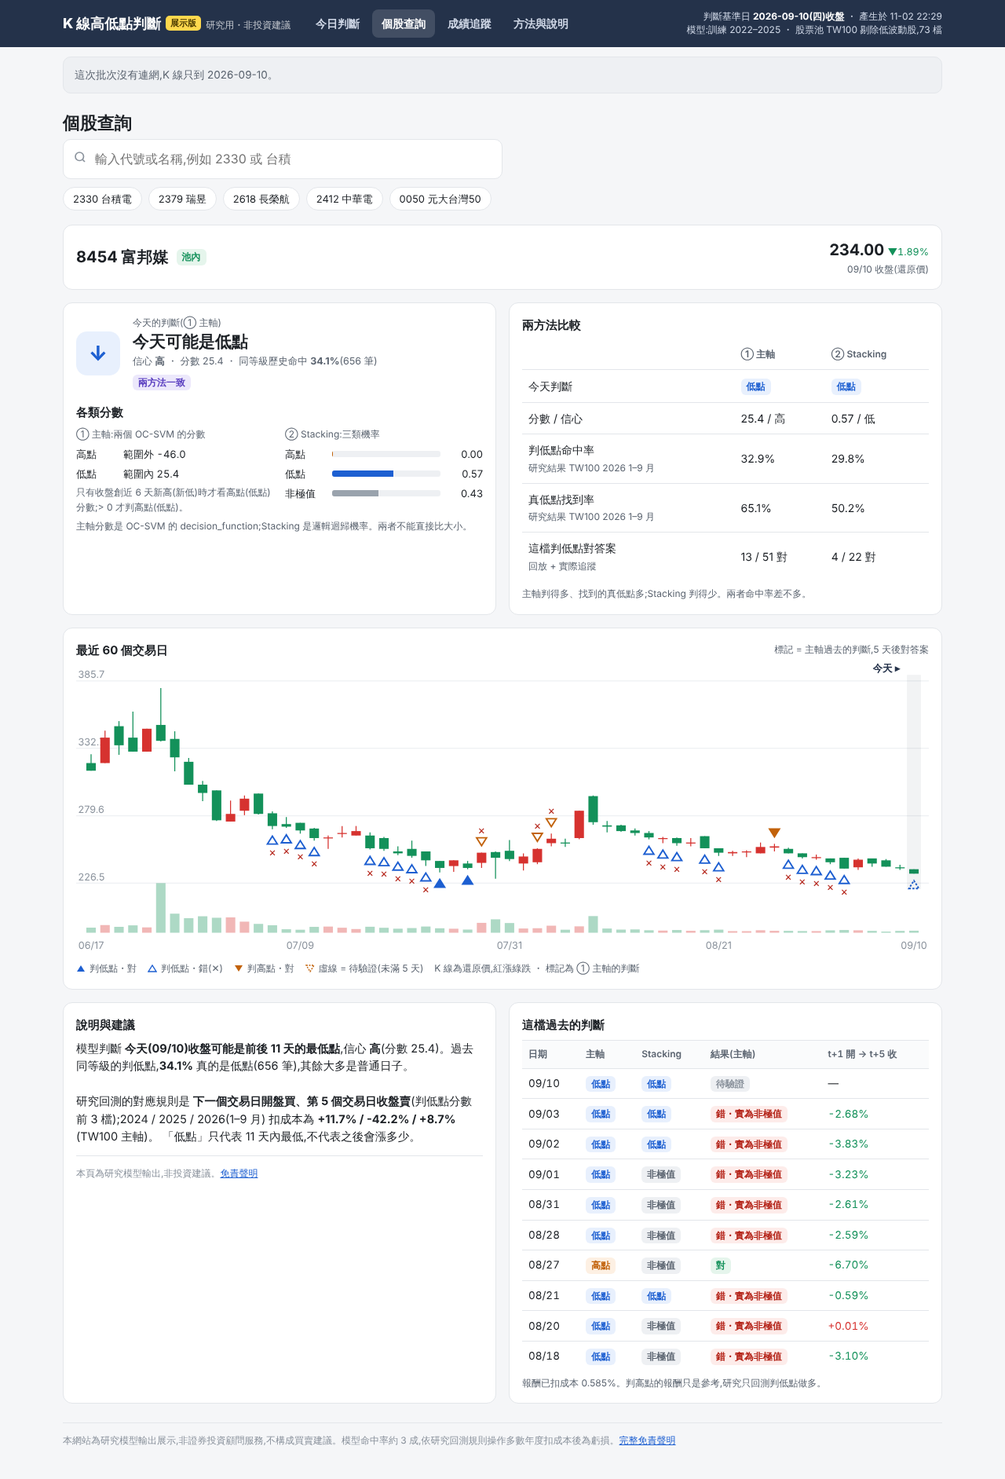
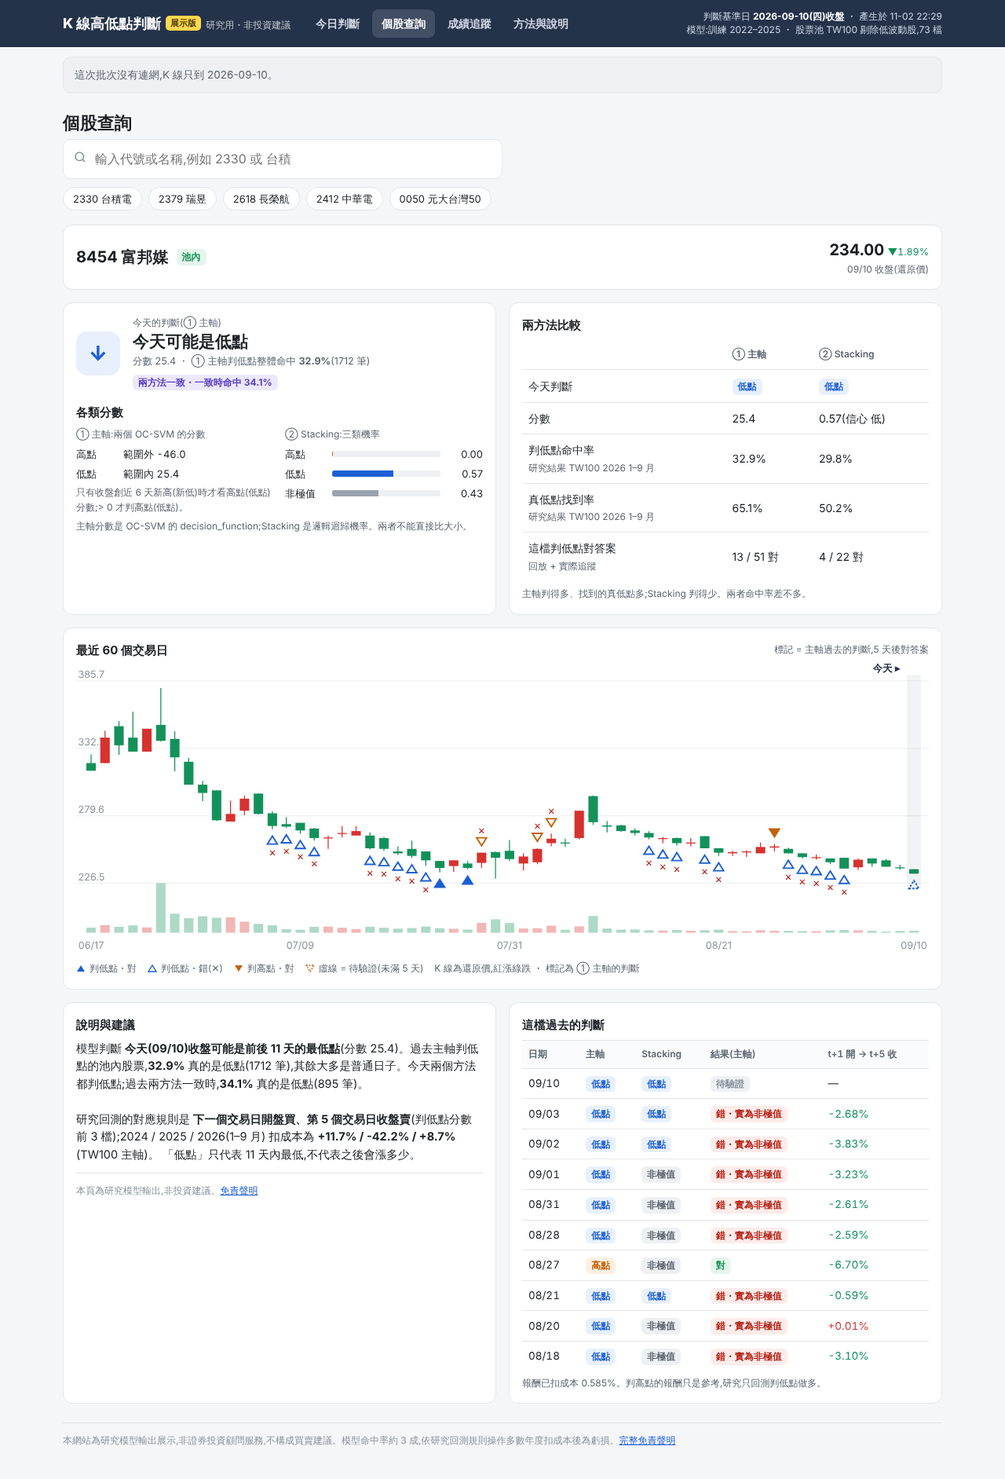
網頁系統:主軸拿掉信心等級(只顯示分數與整體命中率,Stacking 保留);新增兩方法一致時的命中率(成績追蹤、今日判斷、個股頁);測試 41 項
Claude-Session: https://claude.ai/code/session_01S1UqReMe4H9UamAy1a12RW

diff --git a/method_kline_peak/web/site/app.js b/method_kline_peak/web/site/app.js
@@ -35,6 +35,9 @@ function btText(method) {
     + (PF().train_min_amp ? '(研究回測的訓練門檻為 0%)' : '');
 }
 function trk(method, kind) { return D.track?.methods?.[method]?.[kind] || {}; }
+const HAS_LEVEL = {main: false, stack: true};   // 2026-11-03:主軸拿掉信心等級(三個等級命中率幾乎一樣),Stacking 保留
+function allHit(method, kind) { const h = trk(method, kind).all; return h?.n ? `${MNAME[method]}判${LBL[kind]}整體命中 <b>${pct(h.pct)}</b>(${h.n} 筆)` : `${MNAME[method]}尚無對答案紀錄`; }
+function bothTag(kind) { const h = D.today?.both_hit?.[kind] || D.track?.both?.[kind]; return `<span class="tag t-both">兩方法一致${h?.n ? `・一致時命中 ${pct(h.pct)}` : ''}</span>`; }
 function lvHit(h) { return h && h.n >= 20 ? `同等級歷史命中 <b>${pct(h.pct)}</b>(${h.n} 筆)` : h && h.n ? `同等級命中 ${pct(h.pct)}(只有 ${h.n} 筆,僅供參考)` : '同等級尚無對答案紀錄'; }
 function spark(vals, w = 86, h = 28) {
   if (!vals || vals.length < 2) return '';
@@ -51,8 +54,8 @@ function seg(cur, opts, setter) {
 function pickRow(s, i, kind) {
   const color = kind === 'low' ? 'var(--low)' : 'var(--high)';
   return `<div class="pick" onclick="go('stock/${s.code}')"><div class="rank">${i + 1}</div>
-  <div><div class="nm">${s.code}<span>${esc(s.name)}</span> ${s.both ? '<span class="tag t-both">兩方法一致</span>' : ''}</div>
-  <div class="info">分數 ${fmt(s.score, METHOD === 'main' ? 1 : 2)} ・ 信心 <b>${s.level || '—'}</b> ・ ${lvHit(s.level_hit)}</div></div>
+  <div><div class="nm">${s.code}<span>${esc(s.name)}</span> ${s.both ? bothTag(kind) : ''}</div>
+  <div class="info">分數 ${fmt(s.score, METHOD === 'main' ? 1 : 2)} ・ ${HAS_LEVEL[METHOD] ? `信心 <b>${s.level || '—'}</b> ・ ${lvHit(s.level_hit)}` : allHit(METHOD, kind)}</div></div>
   <div class="right"><div class="px">${fmt(s.close)}</div>${chg(s.chg_pct)}<div class="hide-m">${spark(s.spark)}</div></div></div>`;
 }
 function listCard(kind) {
@@ -62,8 +65,8 @@ function listCard(kind) {
   <div class="lbl" style="margin:-4px 0 6px">${isLow ? '今天收盤可能是前後 11 天最低' : '今天收盤可能是前後 11 天最高 ── 只當提醒,研究沒有回測過賣出規則'}</div>
   ${top.length ? top.map((s, i) => pickRow(s, i, kind)).join('') : '<div class="mutebox">今天沒有股票被判為' + LBL[kind] + '。</div>'}
   ${rest.length ? `<details class="more"><summary>還有 ${rest.length} 檔也${isLow ? '判低點' : '判高點'}(分數較低)</summary>
-  <table class="minitable"><tr><th>代號</th><th>名稱</th><th>收盤</th><th>分數</th><th>信心</th></tr>
-  ${rest.map(s => `<tr onclick="go('stock/${s.code}')" style="cursor:pointer"><td>${s.code}</td><td>${esc(s.name)}</td><td>${fmt(s.close)}</td><td>${fmt(s.score, METHOD === 'main' ? 1 : 2)}</td><td>${s.level || '—'}</td></tr>`).join('')}</table></details>` : ''}</div>`;
+  <table class="minitable"><tr><th>代號</th><th>名稱</th><th>收盤</th><th>分數</th><th>${HAS_LEVEL[METHOD] ? '信心' : '兩方法一致'}</th></tr>
+  ${rest.map(s => `<tr onclick="go('stock/${s.code}')" style="cursor:pointer"><td>${s.code}</td><td>${esc(s.name)}</td><td>${fmt(s.close)}</td><td>${fmt(s.score, METHOD === 'main' ? 1 : 2)}</td><td>${HAS_LEVEL[METHOD] ? (s.level || '—') : (s.both ? '是' : '')}</td></tr>`).join('')}</table></details>` : ''}</div>`;
 }
 function pageToday() {
   const T = D.today, lo = T.methods[METHOD].low || [], hi = T.methods[METHOD].high || [];
@@ -74,7 +77,7 @@ function pageToday() {
   <div class="summary">
    <div class="card"><div class="lbl">判低點</div><div class="kpi" style="color:var(--low)">${lo.length} <small>檔</small></div></div>
    <div class="card"><div class="lbl">判高點</div><div class="kpi" style="color:var(--high)">${hi.length} <small>檔</small></div></div>
-   <div class="card"><div class="lbl">兩方法一致(低 / 高)</div><div class="kpi" style="color:#5a3fc0">${T.both.low} / ${T.both.high} <small>檔</small></div></div>
+   <div class="card"><div class="lbl">兩方法一致(低 / 高)</div><div class="kpi" style="color:#5a3fc0">${T.both.low} / ${T.both.high} <small>檔</small></div><div class="info">一致時命中 低 ${pct(T.both_hit?.low?.pct)} / 高 ${pct(T.both_hit?.high?.pct)}</div></div>
    <div class="card"><div class="lbl">${MNAME[METHOD]} 判低點前 3 檔命中率(近 60 天)</div><div class="kpi">${pct(t60.pct)} <small>隨機約 ${pct(base.pct, 0)}</small></div></div>
   </div>
   <div class="grid2">${listCard('low')}${listCard('high')}</div>
@@ -174,12 +177,12 @@ async function pageStock(code) {
   if (S.status === 'nodata') pre = `<div class="mutebox"><b>資料不足</b>,至少要 ${16} 個交易日的 K 線才能判斷。</div>`;
   const dim = S.status === 'lowvol' ? 'opacity:.45;filter:grayscale(1)' : '';
   const last = S.bars[S.bars.length - 1] || [];
-  const hit = S.status === 'pool' ? trk('main', p).levels?.[m.level] : null;   // 等級命中率只統計池內;池外看上方警示的池外命中率
+  const hit = S.status === 'pool' ? trk('main', p).all : null;   // 主軸不分等級:池內整體命中率;池外看上方警示的池外命中率
   const icon = p === 'low' ? '↓' : p === 'high' ? '↑' : '–';
-  const sug = !t.main ? '今天沒有判斷。' : p === 'low' ? `模型判斷 <b>今天(${md(S.date)})收盤可能是前後 11 天的最低點</b>,信心 <b>${m.level}</b>(分數 ${fmt(m.score, 1)})。${hit?.n ? `過去同等級的判低點,<b>${pct(hit.pct)}</b> 真的是低點(${hit.n} 筆),其餘大多是普通日子。` : ''}<br><br>
+  const sug = !t.main ? '今天沒有判斷。' : p === 'low' ? `模型判斷 <b>今天(${md(S.date)})收盤可能是前後 11 天的最低點</b>(分數 ${fmt(m.score, 1)})。${hit?.n ? `過去主軸判低點的池內股票,<b>${pct(hit.pct)}</b> 真的是低點(${hit.n} 筆),其餘大多是普通日子。` : ''}${ps === 'low' && D.track?.both?.low?.n ? `今天兩個方法都判低點;過去兩方法一致時,<b>${pct(D.track.both.low.pct)}</b> 真的是低點(${D.track.both.low.n} 筆)。` : ''}<br><br>
      研究回測的對應規則是 <b>下一個交易日開盤買、第 5 個交易日收盤賣</b>(判低點分數前 3 檔);${btText('main')}(${esc(PF().pool_label)} 主軸)。
      「低點」只代表 11 天內最低,不代表之後會漲多少。`
-    : p === 'high' ? `模型判斷 <b>今天(${md(S.date)})收盤可能是前後 11 天的最高點</b>,信心 <b>${m.level}</b>(分數 ${fmt(m.score, 1)})。${hit?.n ? `過去同等級的判高點,<b>${pct(hit.pct)}</b> 真的是高點(${hit.n} 筆)。` : ''}<br><br>
+    : p === 'high' ? `模型判斷 <b>今天(${md(S.date)})收盤可能是前後 11 天的最高點</b>(分數 ${fmt(m.score, 1)})。${hit?.n ? `過去主軸判高點的池內股票,<b>${pct(hit.pct)}</b> 真的是高點(${hit.n} 筆)。` : ''}${ps === 'high' && D.track?.both?.high?.n ? `今天兩個方法都判高點;過去兩方法一致時,<b>${pct(D.track.both.high.pct)}</b> 真的是高點(${D.track.both.high.n} 筆)。` : ''}<br><br>
      研究沒有回測過「判高點就賣出」的規則,這個判斷只當提醒:短期可能不宜追高。`
     : `模型判斷今天是 <b>非極值</b>(一般日子)。${m.s_high == null ? '' : '今天收盤若不是近 6 天的最高或最低,就不是候選;是候選但形狀不像過去的真高 / 低點,也會判非極值。'}`;
   const R = (D.research?.classification || []).filter(r => r.year === '2026');
@@ -193,13 +196,13 @@ async function pageStock(code) {
   ${t.main ? `<div class="grid2" style="${dim}">
    <div class="card"><div class="verdict"><div class="vicon" style="background:${p === 'low' ? 'var(--low-bg)' : p === 'high' ? 'var(--high-bg)' : 'var(--mute-bg)'};color:${p === 'low' ? 'var(--low)' : p === 'high' ? 'var(--high)' : 'var(--ink3)'}">${icon}</div>
      <div><div class="lbl">今天的判斷(① 主軸)</div><div class="vtitle">${p === 'none' ? '非極值・一般日子' : '今天可能是' + LBL[p]}</div>
-     ${p !== 'none' ? `<div class="info">信心 <b>${m.level}</b> ・ 分數 ${fmt(m.score, 1)} ・ ${S.status === 'pool' ? lvHit(hit) : (STATUS[S.status] || ['池外'])[0] + '股票沒有分等級的命中率'}</div>` : ''}
-     ${p !== 'none' && p === ps ? '<div style="margin-top:4px"><span class="tag t-both">兩方法一致</span></div>' : ''}</div></div>
+     ${p !== 'none' ? `<div class="info">分數 ${fmt(m.score, 1)} ・ ${S.status === 'pool' ? allHit('main', p) : (STATUS[S.status] || ['池外'])[0] + '股票的命中率見上方說明'}</div>` : ''}
+     ${p !== 'none' && p === ps ? `<div style="margin-top:4px">${bothTag(p)}</div>` : ''}</div></div>
      <h3 style="margin-top:16px">各類分數</h3>${classBlocks(t)}
      <div class="lbl" style="margin-top:6px">主軸分數是 OC-SVM 的 decision_function;Stacking 是邏輯迴歸機率。兩者不能直接比大小。</div></div>
    <div class="card"><h3>兩方法比較</h3><table class="cmp"><tr><th></th><th>① 主軸</th><th>② Stacking</th></tr>
      <tr><td>今天判斷</td><td><span class="tag ${tagCls(p)}">${LBL[p]}</span></td><td><span class="tag ${tagCls(ps)}">${LBL[ps]}</span></td></tr>
-     <tr><td>分數 / 信心</td><td>${p === 'none' ? '—' : fmt(m.score, 1) + ' / ' + m.level}</td><td>${ps === 'none' ? '—' : fmt(s.score) + ' / ' + s.level}</td></tr>
+     <tr><td>分數</td><td>${p === 'none' ? '—' : fmt(m.score, 1)}</td><td>${ps === 'none' ? '—' : fmt(s.score) + '(信心 ' + s.level + ')'}</td></tr>
      <tr><td>判低點命中率<br><span class="lbl">研究結果 TW100 2026 1–9 月</span></td><td>${pct(rr('main').prec_low)}</td><td>${pct(rr('stack').prec_low)}</td></tr>
      <tr><td>真低點找到率<br><span class="lbl">研究結果 TW100 2026 1–9 月</span></td><td>${pct(rr('main').rec_low)}</td><td>${pct(rr('stack').rec_low)}</td></tr>
      <tr><td>這檔判低點對答案<br><span class="lbl">回放 + 實際追蹤</span></td><td>${S.low_stats?.main?.n ? `${S.low_stats.main.hits} / ${S.low_stats.main.n} 對` : '—'}</td><td>${S.low_stats?.stack?.n ? `${S.low_stats.stack.hits} / ${S.low_stats.stack.n} 對` : '—'}</td></tr></table>
@@ -235,7 +238,7 @@ function pageTrack() {
   }
   const R = (D.research?.classification || []).find(r => r.year === '2026' && r.method === TM) || {};
   const k = (lbl, r, extra) => `<div class="card"><div class="lbl">${lbl}</div><div class="kpi">${pct(r?.pct)}</div><div class="info">${r?.n ? `${r.hits} / ${r.n} 檔次` : '尚無資料'}${extra ? ' ・ ' + extra : ''}</div></div>`;
-  const lv = T.levels || {};
+  const lv = T.levels || {}, BH = D.track.both?.[TK];
   return `<div class="row" style="margin-bottom:14px"><div><h1>成績追蹤</h1><p class="sub" style="margin:0">每天的判斷當天就存檔,不會事後修改;5 個交易日後自動對答案。資料 ${dates.first || ''} ~ ${dates.last || ''},已對答案 ${dates.n_graded || 0} 天${dates.live_start ? `,${dates.live_start} 起為實際追蹤` : ',目前都是回放'}。</p></div><div class="sp"></div>
    ${seg(TM, [['main', '① 主軸'], ['stack', '② Stacking']], 'TM')} ${seg(TK, [['low', '判低點'], ['high', '判高點']], 'TK')}</div>
   <div class="grid4 k2" style="margin-bottom:16px">
@@ -246,10 +249,11 @@ function pageTrack() {
   <div class="card" style="margin-bottom:16px"><div class="row"><h3 style="margin:0">命中率(池內全部判斷,60 天移動)</h3></div>
    ${series.length > 1 ? `<div class="chartwrap"><svg viewBox="0 0 ${W} ${H}" width="100%" style="display:block">${g}</svg></div>` : '<div class="mutebox">對答案的天數還不夠畫圖(至少 20 天)。</div>'}</div>
   <div class="grid2" style="margin-bottom:16px">
-   <div class="card"><h3>各信心等級的命中率(池內)</h3><table class="tbl lvtable"><tr><th>信心</th><th>命中率</th><th>對 / 判斷數</th></tr>
-    ${['高', '中', '低'].map(l => `<tr><td>${l}</td><td>${pct(lv[l]?.pct)}</td><td>${lv[l] ? `${lv[l].hits} / ${lv[l].n}` : '—'}</td></tr>`).join('')}
-    <tr><td>全部</td><td>${pct(T.all?.pct)}</td><td>${T.all ? `${T.all.hits} / ${T.all.n}` : '—'}</td></tr></table>
-    <div class="lbl" style="margin-top:6px">信心等級 = 訓練期內分數的三等分。三個等級的命中率如果差不多,代表分數高低對命中率幫助不大。</div></div>
+   <div class="card"><h3>${HAS_LEVEL[TM] ? '各信心等級的命中率(池內)' : '命中率(池內)'}</h3><table class="tbl lvtable"><tr><th>${HAS_LEVEL[TM] ? '信心' : '判斷'}</th><th>命中率</th><th>對 / 判斷數</th></tr>
+    ${HAS_LEVEL[TM] ? ['高', '中', '低'].map(l => `<tr><td>${l}</td><td>${pct(lv[l]?.pct)}</td><td>${lv[l] ? `${lv[l].hits} / ${lv[l].n}` : '—'}</td></tr>`).join('') : ''}
+    <tr><td>全部</td><td>${pct(T.all?.pct)}</td><td>${T.all ? `${T.all.hits} / ${T.all.n}` : '—'}</td></tr>
+    <tr><td>兩方法一致(主軸、Stacking 都判${LBL[TK]})</td><td>${pct(BH?.pct)}</td><td>${BH ? `${BH.hits} / ${BH.n}` : '—'}</td></tr></table>
+    <div class="lbl" style="margin-top:6px">${HAS_LEVEL[TM] ? '信心等級 = 訓練期內分數的三等分。' : '主軸不分信心等級:回放期三個等級的命中率幾乎一樣,分等級沒有參考價值。'}「兩方法一致」兩個方法看的是同一批股票日,所以切換方法時數字相同。</div></div>
    <div class="card"><h3>池外與低波動股</h3><table class="tbl lvtable"><tr><th>股票</th><th>命中率</th><th>對 / 判斷數</th></tr>
     <tr><td>池內(參考)</td><td>${pct(T.all?.pct)}</td><td>${T.all ? `${T.all.hits} / ${T.all.n}` : '—'}</td></tr>
     <tr><td>池外</td><td>${pct(T.out_pool?.pct)}</td><td>${T.out_pool ? `${T.out_pool.hits} / ${T.out_pool.n}` : '—'}</td></tr>

diff --git a/method_kline_peak/web/system/publish.py b/method_kline_peak/web/system/publish.py
@@ -51,6 +51,15 @@ def _rate(hits, n):
     return {"hits": int(hits), "n": int(n), "pct": round(hits / n * 100, 1) if n else None}
 
 
+def _public_row(r):
+    """網頁用的單檔判斷:不顯示等級的方法拿掉 level 欄位(存檔本身不改)。"""
+    r = {k: (dict(v) if isinstance(v, dict) else v) for k, v in r.items()}
+    for m in C.METHODS:
+        if m not in C.LEVEL_METHODS and isinstance(r.get(m), dict):
+            r[m].pop("level", None)
+    return r
+
+
 # ───────────────────────── 成績 ─────────────────────────
 def top_picks(tab, method, kind, n=C.TOP_N):
     """每天池內判 kind 的股票依分數取前 n 檔。"""
@@ -60,12 +69,21 @@ def top_picks(tab, method, kind, n=C.TOP_N):
 
 
 def level_hits(tab, method, kind):
+    """各信心等級的命中率(池內);不顯示等級的方法(config.LEVEL_METHODS 以外)回傳空的。"""
+    if method not in C.LEVEL_METHODS:
+        return {}
     t = tab[(tab.status == U.POOL) & (tab[f"{method}_pred"] == kind) & tab.truth.notna()]
     return {lv: _rate((g.truth == kind).sum(), len(g)) for lv, g in t.groupby(f"{method}_level")}
 
 
+def both_hits(tab, kind):
+    """兩個方法都判 kind 的池內股票日,事後真的是 kind 的比例。"""
+    t = tab[(tab.status == U.POOL) & (tab.main_pred == kind) & (tab.stack_pred == kind) & tab.truth.notna()]
+    return _rate((t.truth == kind).sum(), len(t))
+
+
 def track(tab):
-    out = {"methods": {}, "dates": {}}
+    out = {"methods": {}, "dates": {}, "both": {}}
     if not len(tab):
         return out
     graded_dates = sorted(tab.loc[tab.truth.notna(), "date"].unique())
@@ -76,6 +94,7 @@ def track(tab):
                     "live_start": live.index.min() if len(live) else None}
     pool_g = tab[(tab.status == U.POOL) & tab.truth.notna()]
     year = str(tab.date.max())[:4]
+    out["both"] = {kind: both_hits(tab, kind) for kind in KINDS}
     for method in C.METHODS:
         out["methods"][method] = {}
         for kind in KINDS:
@@ -113,7 +132,7 @@ def track(tab):
                 "all_ytd": _rate((ytd.truth == kind).sum(), len(ytd)) | {"year": year},
                 "all": _rate((allsig.truth == kind).sum(), len(allsig)),
                 "base_rate": _rate((pool_g.truth == kind).sum(), len(pool_g)),
-                "levels": level_hits(tab, method, kind),
+                "levels": level_hits(tab, method, kind), "both": out["both"][kind],
                 "out_pool": _rate((outs.truth == kind).sum(), len(outs)),
                 "low_vol": _rate((low_v.truth == kind).sum(), len(low_v)),
                 "series": series, "daily": daily}
@@ -172,7 +191,8 @@ def publish(data, cal, check, log=print):
     def lv_hit(method, kind, lv):
         return tr["methods"].get(method, {}).get(kind, {}).get("levels", {}).get(lv)
 
-    today = {"date": latest["date"], "source": latest.get("source"), "methods": {}}
+    today = {"date": latest["date"], "source": latest.get("source"), "methods": {}, "both_hit": tr.get("both", {}),
+             "hit": {m: {k: tr["methods"].get(m, {}).get(k, {}).get("all") for k in KINDS} for m in C.METHODS}}
     for method in C.METHODS:
         today["methods"][method] = {}
         for kind in KINDS:
@@ -183,7 +203,9 @@ def publish(data, cal, check, log=print):
                     continue
                 other = r.get("stack" if method == "main" else "main") or {}
                 items.append({"code": r["code"], "name": U.name_of(r["code"]), "close": r.get("close"), "chg_pct": r.get("chg_pct"),
-                              "score": mm["score"], "level": mm["level"], "level_hit": lv_hit(method, kind, mm["level"]),
+                              "score": mm["score"],
+                              "level": mm["level"] if method in C.LEVEL_METHODS else None,
+                              "level_hit": lv_hit(method, kind, mm["level"]) if method in C.LEVEL_METHODS else None,
                               "both": other.get("pred") == kind})
             items.sort(key=lambda x: -(x["score"] if x["score"] is not None else -1e9))
             for it in items[:C.TOP_N * 2]:
@@ -213,14 +235,14 @@ def publish(data, cal, check, log=print):
         if g is not None:
             first = bars[0][0] if bars else latest["date"]
             for _, s in g[g.date >= first].iterrows():
-                sig.append({"date": s.date, "main": s.main_pred, "main_score": s.main_score, "main_level": s.main_level,
+                sig.append({"date": s.date, "main": s.main_pred, "main_score": s.main_score,
                             "stack": s.stack_pred, "truth": s.truth, "ret_pct": s.ret_pct, "source": s.source})
             for method in C.METHODS:
                 gm = g[(g[f"{method}_pred"] == "low") & g.truth.notna()]
                 stats[method] = _rate((gm.truth == "low").sum(), len(gm))
         _w(os.path.join(out, "stocks", f"{code}.json"), _clean_nan({
             "code": code, "name": U.name_of(code), "status": r["status"], "move": r.get("move"), "date": latest["date"],
-            "today": r, "bars": bars, "signals": sig[-40:], "low_stats": stats}))
+            "today": _public_row(r), "bars": bars, "signals": sig[-40:], "low_stats": stats}))
 
     # 自動完成清單
     idx = []

diff --git a/method_kline_peak/web/tests/test_publish.py b/method_kline_peak/web/tests/test_publish.py
@@ -1,0 +1,45 @@
+"""網頁資料的成績欄位:主軸不分信心等級、Stacking 分;兩方法一致時的命中率。"""
+import pandas as pd
+
+from system import config as C, publish as PB
+
+
+def _tab():
+    """池內 6 個股票日(都已對答案)+ 1 個池外:
+    A 兩方法都判低點、真的是低點;B 兩方法都判低點、其實是非極值;C 只有主軸判低點、真的是低點;
+    D 兩方法都判高點、真的是高點;E 都判非極值;F 兩方法都判低點但還沒有答案;G 池外、兩方法都判低點、真的是低點。"""
+    rows = [("A", "pool", "low", "low", "low"), ("B", "pool", "low", "low", "none"), ("C", "pool", "low", "none", "low"),
+            ("D", "pool", "high", "high", "high"), ("E", "pool", "none", "none", "none"), ("F", "pool", "low", "low", None),
+            ("G", "out", "low", "low", "low")]
+    return pd.DataFrame([{"date": "2026-03-02", "source": "replay", "code": c, "status": st, "close": 10.0,
+                          "main_pred": m, "main_score": 1.0 if m != "none" else None, "main_level": "高" if m != "none" else None,
+                          "stack_pred": s, "stack_score": 0.6 if s != "none" else None, "stack_level": "中" if s != "none" else None,
+                          "truth": t, "ret_pct": 1.0 if t else None} for c, st, m, s, t in rows])
+
+
+def test_both_agree_hit_rate():
+    """Given 池內兩方法都判低點且已對答案的有 A、B 兩筆(A 對、B 錯),F 還沒答案、G 是池外 /
+    When 算兩方法一致時的命中率 / Then 判低點 1 / 2 = 50%(不含待驗證與池外);判高點 1 / 1 = 100%"""
+    tr = PB.track(_tab())
+    assert tr["both"]["low"] == {"hits": 1, "n": 2, "pct": 50.0}
+    assert tr["both"]["high"] == {"hits": 1, "n": 1, "pct": 100.0}
+    assert tr["methods"]["main"]["low"]["both"] == tr["methods"]["stack"]["low"]["both"] == tr["both"]["low"]
+
+
+def test_main_has_no_levels_stack_does():
+    """Given 存檔裡兩個方法都有信心等級欄位 / When 產生成績追蹤資料 / Then 主軸沒有分等級的命中率,Stacking 有;
+    主軸仍有整體命中率(池內判低點 A、B、C 三筆對 2 筆)"""
+    assert C.LEVEL_METHODS == ("stack",)
+    tr = PB.track(_tab())
+    assert tr["methods"]["main"]["low"]["levels"] == {}
+    assert tr["methods"]["stack"]["low"]["levels"] == {"中": {"hits": 1, "n": 2, "pct": 50.0}}
+    assert tr["methods"]["main"]["low"]["all"] == {"hits": 2, "n": 3, "pct": 66.7}
+
+
+def test_public_row_drops_main_level_only():
+    """Given 存檔的一檔判斷(兩個方法都有 level) / When 轉成網頁用的資料 / Then 主軸的 level 拿掉、Stacking 保留,存檔本身不被改動"""
+    r = {"code": "2330", "status": "pool", "main": {"pred": "low", "score": 1.0, "level": "高"},
+         "stack": {"pred": "low", "score": 0.6, "level": "中"}}
+    out = PB._public_row(r)
+    assert "level" not in out["main"] and out["stack"]["level"] == "中"
+    assert r["main"]["level"] == "高"

diff --git a/method_kline_peak/web/system/config.py b/method_kline_peak/web/system/config.py
@@ -67,4 +67,7 @@ CHART_BARS = 60                       # 個股頁 K 線根數
 HISTORY_START = "2016-01-01"
 METHODS = ("main", "stack")
 METHOD_NAMES = {"main": "① 主軸", "stack": "② Stacking"}
+# 畫面上顯示信心等級(高 / 中 / 低)的方法。2026-11-03 使用者決定:主軸的三個等級命中率幾乎一樣(回放期 34.1 / 31.6 / 32.8%),
+# 拿掉等級,只顯示分數和整體命中率;Stacking 等級有差(33.1 / 30.9 / 25.2%),保留。存檔裡仍保留兩個方法的等級欄位(格式不變)
+LEVEL_METHODS = ("stack",)
 KIND = {"low": "低點", "high": "高點", "none": "非極值"}

diff --git a/method_kline_peak/web/README.md b/method_kline_peak/web/README.md
@@ -67,9 +67,9 @@ KPWEB_POOL=tw100 KPWEB_TRAIN_MIN_AMP=3 python method_kline_peak/web/run.py start
 ## 測試
 
 ```bash
-python -m pytest method_kline_peak/web/tests        # 網頁系統 38 項
+python -m pytest method_kline_peak/web/tests        # 網頁系統 41 項
 python -m pytest method_kline_peak/tests            # 研究程式碼原本的測試
 ```
 
 網頁系統的測試涵蓋:資料更新(增量、還原價變動重抓、網路失敗、休市)、判斷存檔不覆蓋、5 天後才對答案、
-池內 / 池外 / 低波動 / 不支援判定、判斷檔格式、股票池與訓練門檻設定、特徵不偷看未來、每日批次與回放結果相同、正式模型重現研究 2026 年的成績。
+池內 / 池外 / 低波動 / 不支援判定、判斷檔格式、股票池與訓練門檻設定、兩方法一致命中率與信心等級、特徵不偷看未來、每日批次與回放結果相同、正式模型重現研究 2026 年的成績。
